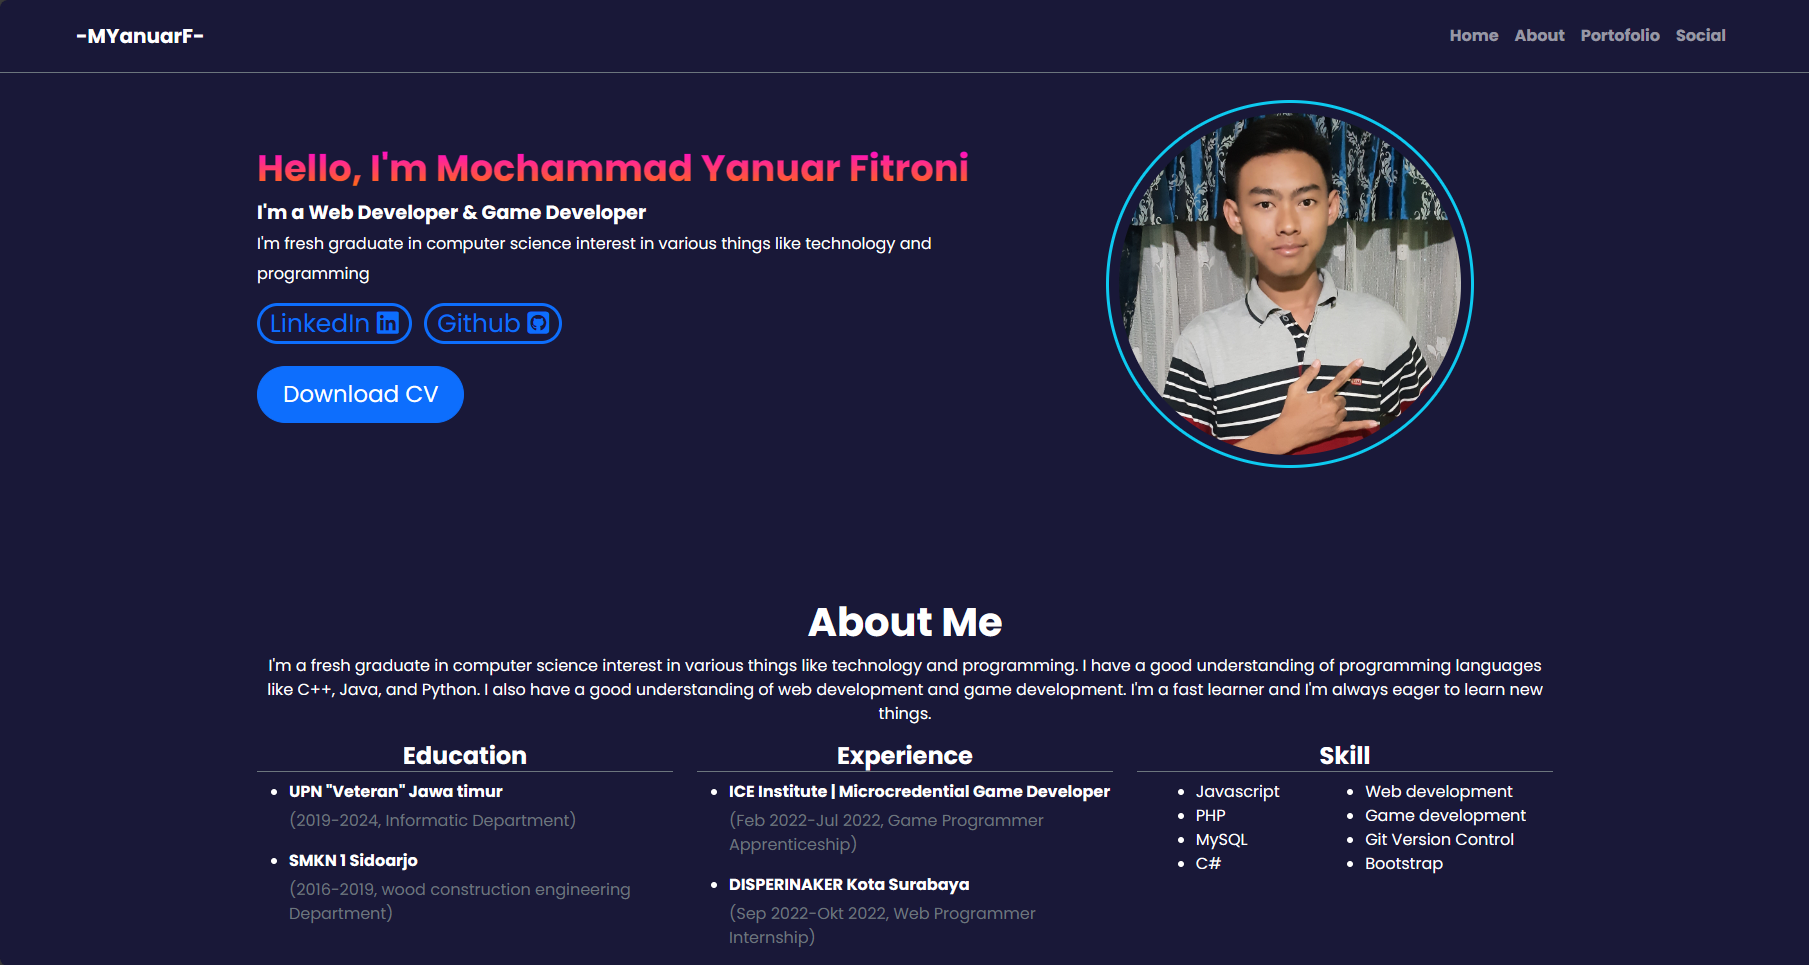
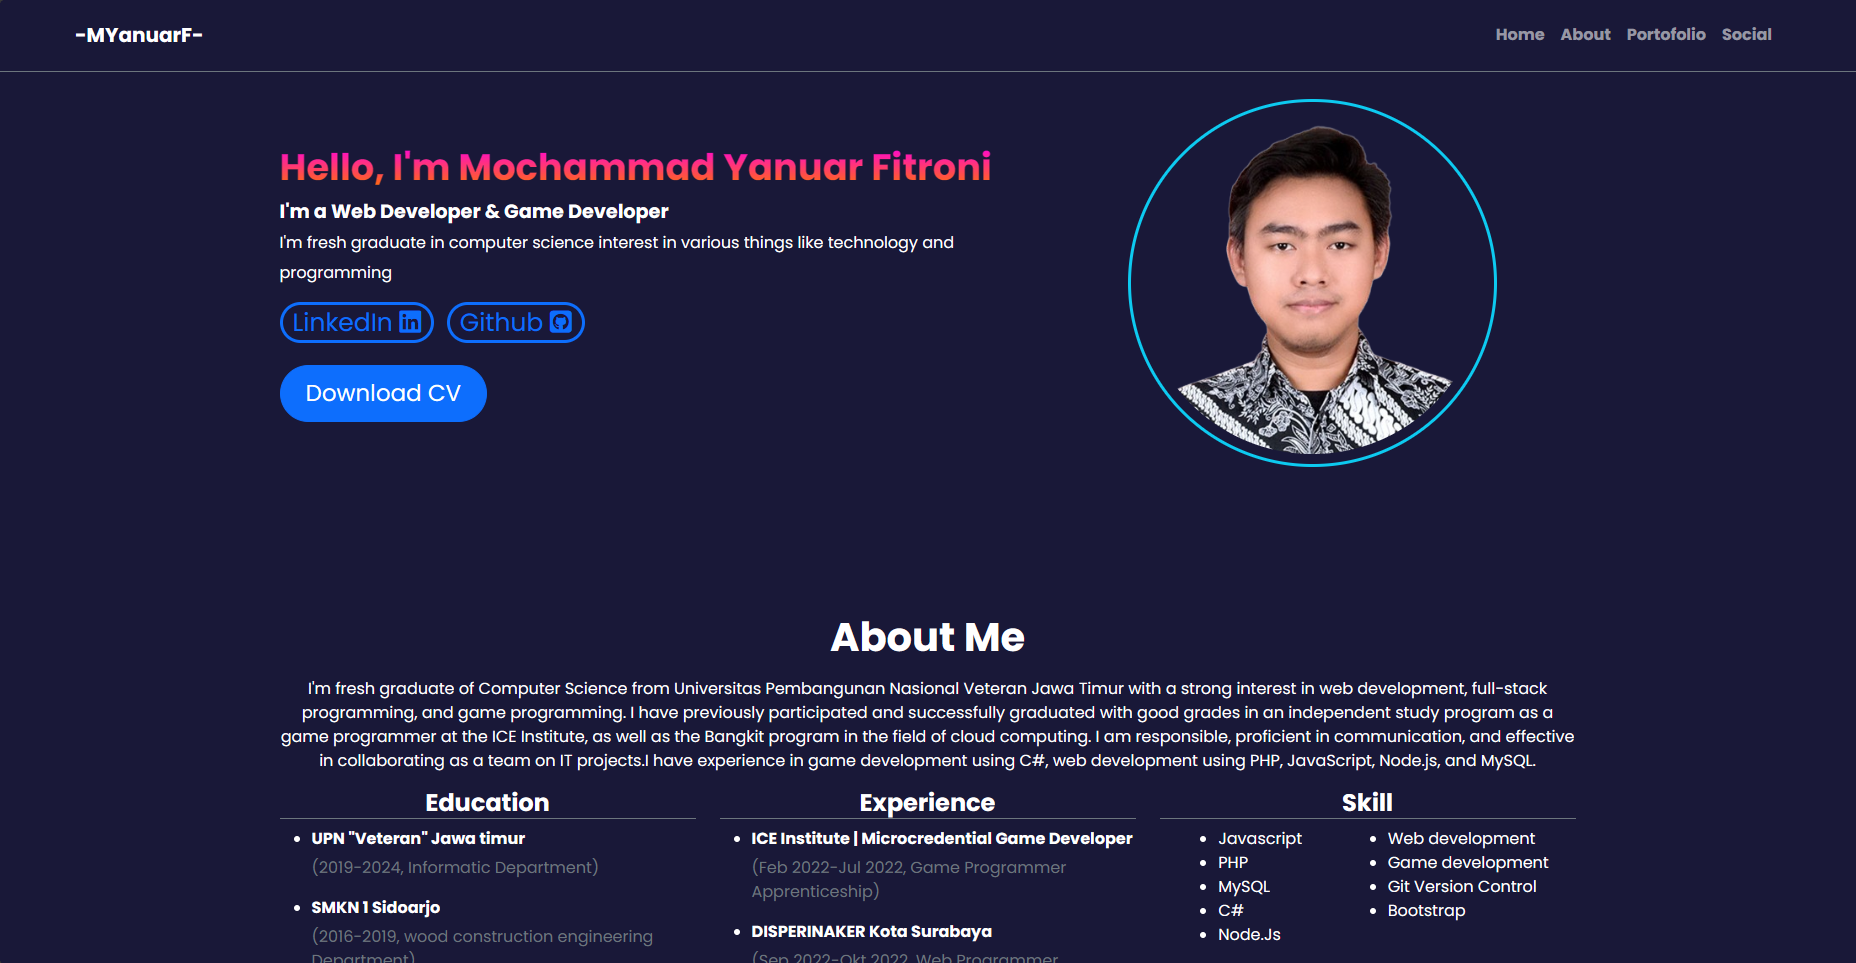
update photo & document

diff --git a/index.html b/index.html
@@ -84,7 +84,7 @@
             </div>
           </div>
           <div class="col-lg-5 d-flex justify-content-center img-res">
-            <img src="Assets/fotoku.jpg" alt="" class="img-cre rounded-circle border border-3 border-info">
+            <img src="Assets/foto.png" alt="" class="img-cre rounded-circle border border-3 border-info">
           </div>
         </div>
       </div>
